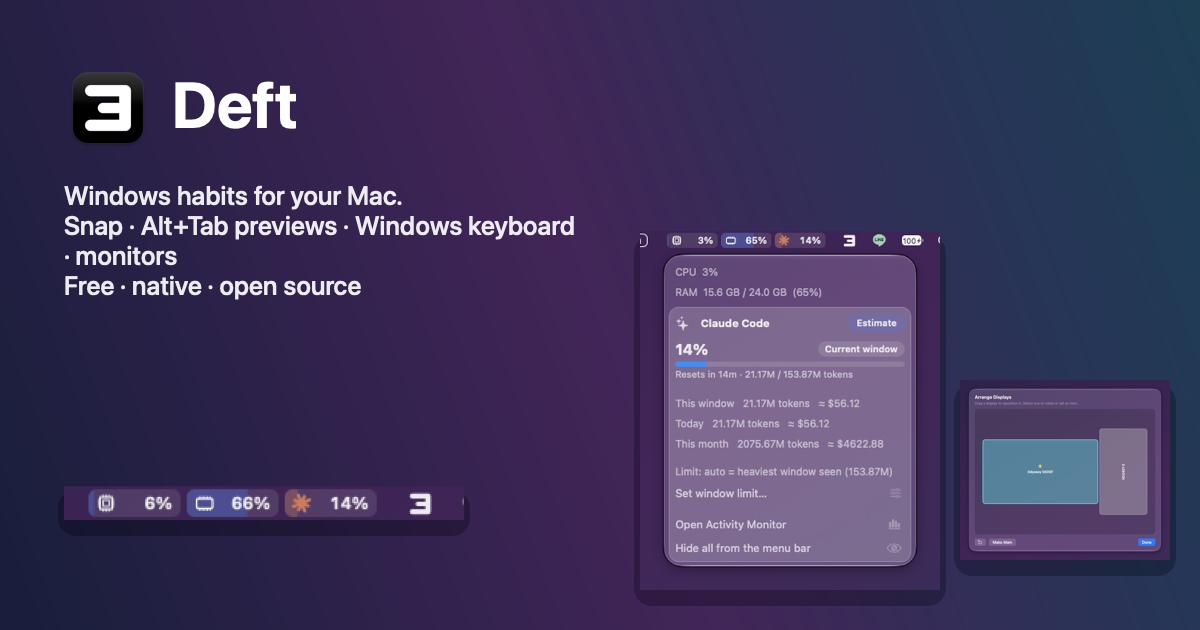
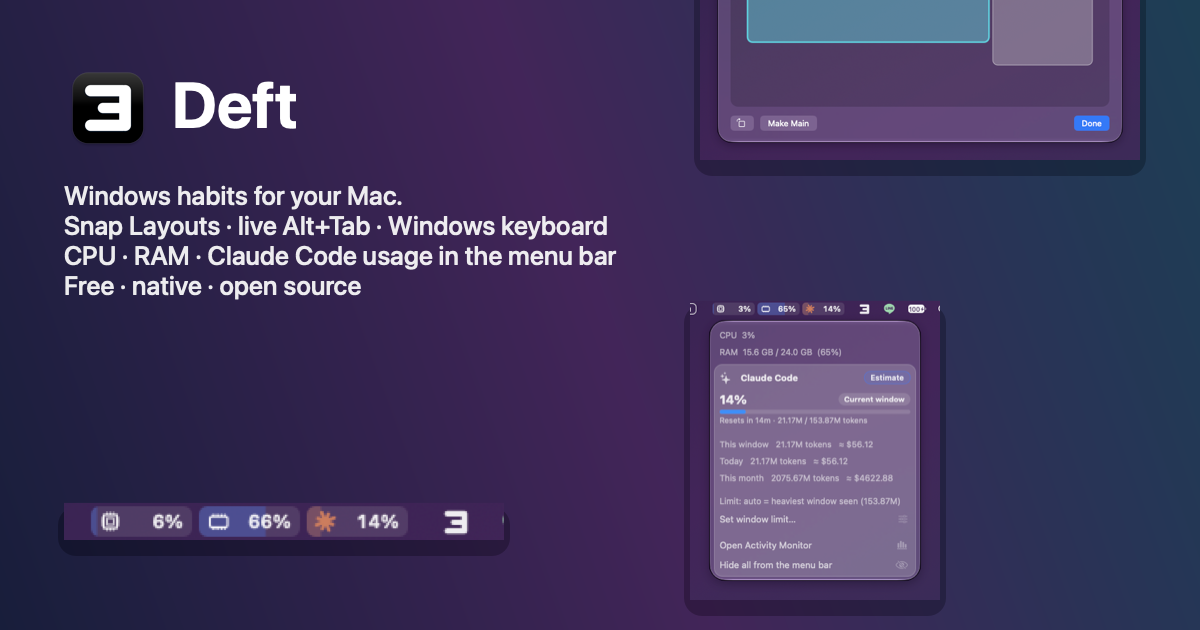
Docs: brew trust step, tidier OG image

diff --git a/docs/index.html b/docs/index.html
@@ -169,7 +169,7 @@
       </ol>
       <div>
         <p style="color:var(--muted);margin-top:0">Prefer Homebrew?</p>
-        <code>brew tap ninjait07/deft https://github.com/ninjait07/deft<br>brew install --cask deft</code>
+        <code>brew tap ninjait07/deft https://github.com/ninjait07/deft<br>brew trust ninjait07/deft<br>brew install --cask deft</code>
         <p style="color:var(--muted);font-size:13px">Signed with a Developer ID and notarized by Apple, so it opens without security warnings.</p>
       </div>
     </div>

diff --git a/README.md b/README.md
@@ -40,6 +40,7 @@ Or with Homebrew:
 
 ```
 brew tap ninjait07/deft https://github.com/ninjait07/deft
+brew trust ninjait07/deft
 brew install --cask deft
 ```
 
